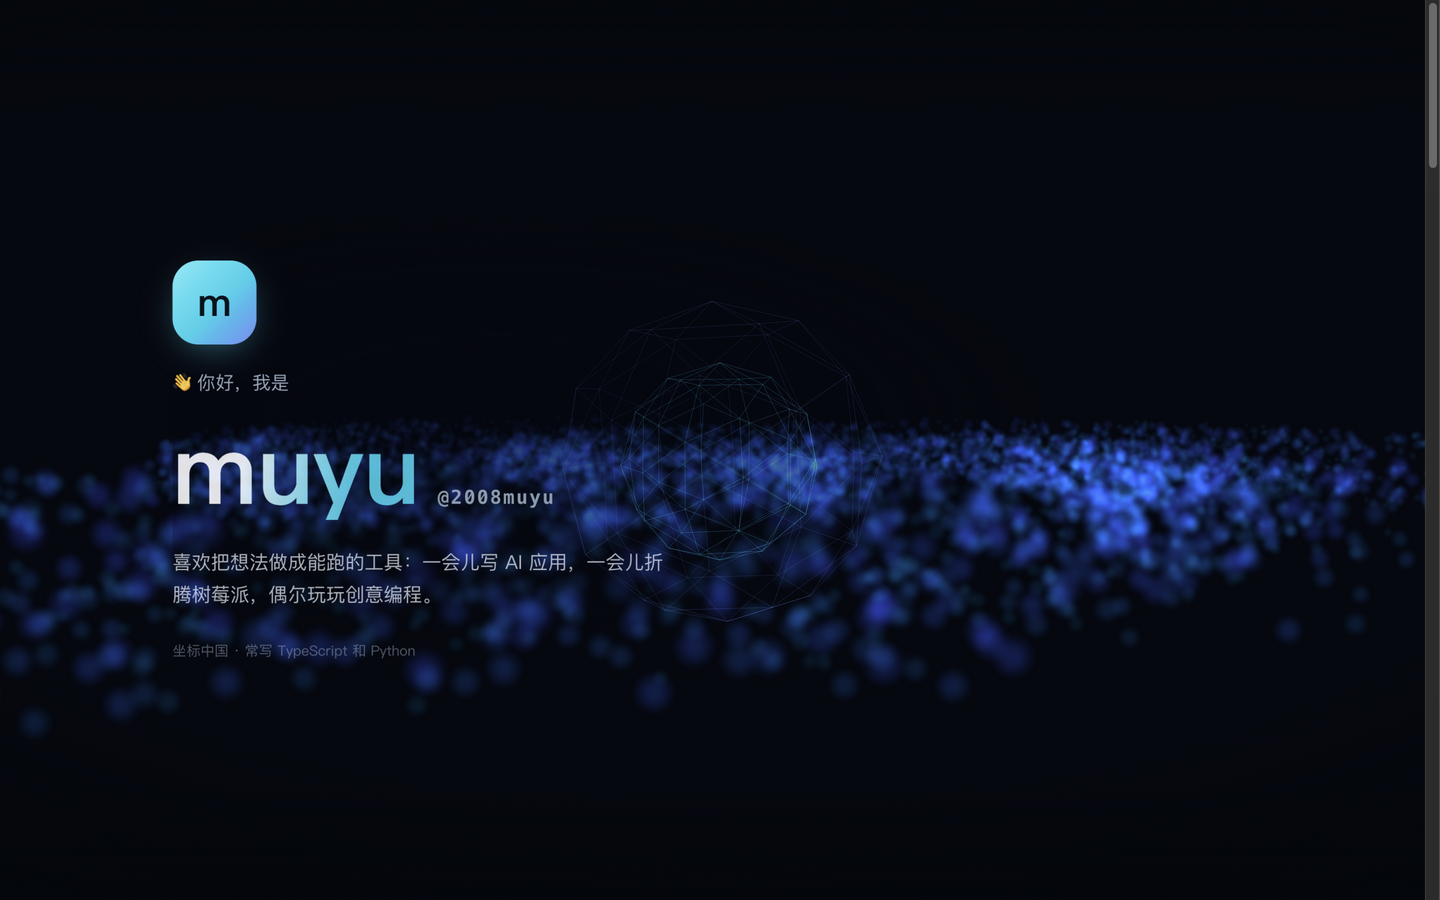
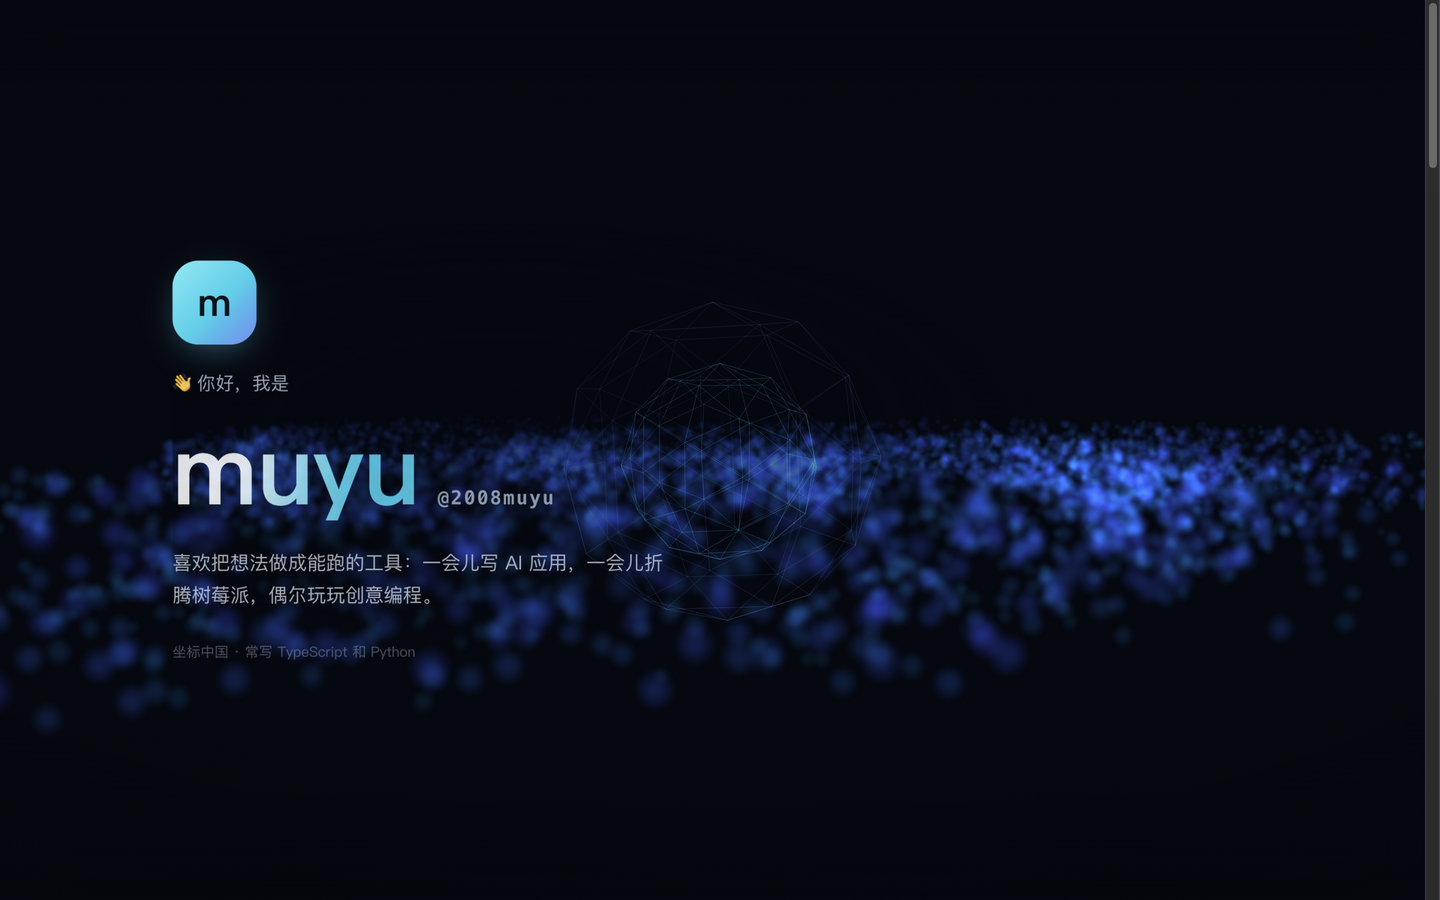
feat(v1.2): 粒子交互三件套——光标引力场/点击涟漪/滚动湍流（着色器 uniform 实现，快起慢落封顶），相机视差加强；修 pow 负底数 GLSL 陷阱

diff --git a/src/experience/ParticlesField.js b/src/experience/ParticlesField.js
@@ -1,7 +1,10 @@
 // 共享粒子场：同一组粒子在五幕之间连续变形（GPU 端 mix，CPU 仅在跨段时烘焙基态）
+// 交互三件套（v1.2）：光标引力场 / 点击涟漪 / 滚动湍流 —— 全部着色器 uniform 驱动，零新增 draw call
 import * as THREE from 'three'
 import { buildFormations } from './utils/formations.js'
 import { mulberry32 } from './utils/perf.js'
+
+const MAX_RIPPLES = 4
 
 const VERT = /* glsl */ `
   attribute vec3 aTarget;
@@ -9,14 +12,43 @@ const VERT = /* glsl */ `
   uniform float uMorph;
   uniform float uTime;
   uniform float uSize;
+  uniform vec3 uMouse;
+  uniform float uMouseK;
+  uniform vec4 uRipples[${MAX_RIPPLES}];
+  uniform float uTurb;
   varying float vRand;
   varying float vDepth;
+  varying float vGlow;
   void main() {
     vec3 p = mix(position, aTarget, uMorph);
     float t = uTime;
     p.x += sin(t * 0.35 + aRand * 6.2831) * 0.05;
     p.y += cos(t * 0.3 + aRand * 4.71) * 0.05;
     p.z += sin(t * 0.22 + aRand * 3.14) * 0.04;
+    // 滚动湍流：滚得越快粒子越躁，停下缓缓平息
+    p.x += sin(t * 2.3 + aRand * 12.6) * 0.17 * uTurb;
+    p.y += cos(t * 1.9 + aRand * 9.4) * 0.17 * uTurb;
+    p.z += sin(t * 2.7 + aRand * 15.7) * 0.13 * uTurb;
+    // 光标引力场：附近粒子被推开（明显可感，位移封顶）
+    vec3 dm = p - uMouse;
+    float md = length(dm);
+    float push = smoothstep(3.8, 0.2, md) * uMouseK;
+    p += (dm / max(md, 0.001)) * push * 1.7;
+    float glow = push * 0.9;
+    // 点击涟漪：球形波前扫过，波及粒子推起并提亮
+    for (int i = 0; i < ${MAX_RIPPLES}; i++) {
+      float age = t - uRipples[i].w;
+      if (age > 0.0 && age < 1.3) {
+        vec3 d = p - uRipples[i].xyz;
+        float dist = length(d);
+        float e = (dist - age * 7.5) * 1.5;
+        float band = exp(-e * e);
+        float amp = band * (1.0 - age / 1.3);
+        p += (d / max(dist, 0.001)) * amp * 1.2;
+        glow += amp;
+      }
+    }
+    vGlow = glow;
     vec4 mv = modelViewMatrix * vec4(p, 1.0);
     gl_PointSize = uSize * (0.6 + aRand * 1.1) * (150.0 / max(0.1, -mv.z));
     gl_Position = projectionMatrix * mv;
@@ -32,15 +64,18 @@ const FRAG = /* glsl */ `
   uniform float uOpacity;
   varying float vRand;
   varying float vDepth;
+  varying float vGlow;
   void main() {
     vec2 uv = gl_PointCoord - 0.5;
     float d = length(uv);
     if (d > 0.5) discard;
     float soft = smoothstep(0.5, 0.05, d);
     vec3 color = mix(uColorA, uColorB, vRand);
-    // 安静背景：整体低亮度，近处略亮、远处快速沉入背景
+    color += vGlow * 0.35;
+    // 安静背景：整体低亮度，近处略亮、远处快速沉入背景；交互处按 vGlow 提亮并封顶
     float fogFade = mix(0.72, 0.1, vDepth);
-    gl_FragColor = vec4(color, soft * (0.22 + 0.58 * vRand) * fogFade * uOpacity);
+    float alpha = soft * (0.22 + 0.58 * vRand) * fogFade * uOpacity * (1.0 + vGlow * 0.9);
+    gl_FragColor = vec4(color, min(alpha, 0.85));
   }
 `
 
@@ -77,6 +112,10 @@ export class ParticlesField {
         uColorA: { value: new THREE.Color('#22d3ee') },
         uColorB: { value: new THREE.Color('#818cf8') },
         uOpacity: { value: 0.55 },
+        uMouse: { value: new THREE.Vector3(0, 0, 999) },
+        uMouseK: { value: 0 },
+        uRipples: { value: Array.from({ length: MAX_RIPPLES }, () => new THREE.Vector4(0, 0, 999, -1e3)) },
+        uTurb: { value: 0 },
       },
       transparent: true,
       depthWrite: false,
@@ -85,6 +124,13 @@ export class ParticlesField {
 
     this.points = new THREE.Points(geometry, this.material)
     this.points.frustumCulled = false
+    this._rippleIdx = 0
+  }
+
+  /** 生成一圈涟漪：pos=世界坐标点击点，time=当前 elapsed（槽位循环复用） */
+  spawnRipple(pos, time) {
+    const slot = this._rippleIdx++ % MAX_RIPPLES
+    this.material.uniforms.uRipples.value[slot].set(pos.x, pos.y, pos.z, time)
   }
 
   /** i=当前幕形态, j=下一形态, t∈[0,1] 混合进度（跨段时把当前视觉状态烘焙为基态，保证连续） */

diff --git a/src/experience/Experience.js b/src/experience/Experience.js
@@ -48,6 +48,36 @@ export class Experience {
     this.sm.register('contact', new ContactScene())
     this.sm.go('hero')
 
+    // 粒子交互状态（预分配，渲染循环内零分配）
+    this._progress = 0
+    this._prevProgress = 0
+    this._ndcX = 0
+    this._ndcY = 0
+    this._pointerSeen = false
+    this._pointerAt = -1e3 // 上次指针移动时刻（elapsed 域）
+    this._rippleSlot = 0
+    this._mouseTarget = new THREE.Vector3(0, 0, 999)
+    this._rayPoint = new THREE.Vector3()
+    this._rayDir = new THREE.Vector3()
+
+    this._onPointerMove = (e) => {
+      this._ndcX = (e.clientX / window.innerWidth) * 2 - 1
+      this._ndcY = -(e.clientY / window.innerHeight) * 2 + 1
+      this._pointerSeen = true
+      this._pointerAt = this.elapsed
+      this._updateMouseTarget(e.clientX, e.clientY)
+    }
+    this._onPointerDown = (e) => {
+      this._updateMouseTarget(e.clientX, e.clientY)
+      this.particles.spawnRipple(this._mouseTarget, this.elapsed)
+    }
+    this._onPointerLeave = () => {
+      this._pointerSeen = false
+    }
+    window.addEventListener('pointermove', this._onPointerMove, { passive: true })
+    window.addEventListener('pointerdown', this._onPointerDown, { passive: true })
+    document.documentElement.addEventListener('mouseleave', this._onPointerLeave)
+
     this.clock = new THREE.Clock()
     this.elapsed = 0
 
@@ -73,8 +103,9 @@ export class Experience {
     requestAnimationFrame(this.loop)
   }
 
-  /** 全局滚动进度（相机关键帧） */
+  /** 全局滚动进度（相机关键帧 + 湍流强度来源） */
   setProgress(p) {
+    this._progress = Math.max(0, Math.min(1, p))
     this.rig.setProgress(p)
   }
 
@@ -101,6 +132,7 @@ export class Experience {
     this.rig.update(dt)
     this.particles.update(dt, this.elapsed)
     this.sm.update(dt, this.elapsed)
+    this._updateInteraction(dt)
     this.renderer.render(this.scene, this.camera)
 
     if (!this.firstFrameEmitted) {
@@ -109,9 +141,34 @@ export class Experience {
     }
   }
 
+  /** 指针屏幕坐标 → 粒子云深度处的世界坐标（随相机移动，始终指向视觉主体） */
+  _updateMouseTarget(clientX, clientY) {
+    this._rayPoint
+      .set((clientX / window.innerWidth) * 2 - 1, -(clientY / window.innerHeight) * 2 + 1, 0.5)
+      .unproject(this.camera)
+    this._rayDir.copy(this._rayPoint).sub(this.camera.position).normalize()
+    this._mouseTarget.copy(this.camera.position).addScaledVector(this._rayDir, 10.5)
+  }
+
+  /** 交互强度缓动：引力场跟随/衰减、湍流快起慢落（强度全部封顶） */
+  _updateInteraction(dt) {
+    const u = this.particles.material.uniforms
+    const kTarget = this._pointerSeen && this.elapsed - this._pointerAt < 1.4 ? 1 : 0
+    u.uMouseK.value += (kTarget - u.uMouseK.value) * (1 - Math.exp(-7 * dt))
+    u.uMouse.value.lerp(this._mouseTarget, 1 - Math.exp(-9 * dt))
+    const vel = Math.abs(this._progress - this._prevProgress) / Math.max(dt, 1e-4)
+    this._prevProgress = this._progress
+    const turbTarget = Math.min(1, vel * 1.4)
+    const ease = turbTarget > u.uTurb.value ? 14 : 2.4 // 快起慢落
+    u.uTurb.value += (turbTarget - u.uTurb.value) * (1 - Math.exp(-ease * dt))
+  }
+
   dispose() {
     this.running = false
     window.removeEventListener('resize', this._onResize)
+    window.removeEventListener('pointermove', this._onPointerMove)
+    window.removeEventListener('pointerdown', this._onPointerDown)
+    document.documentElement.removeEventListener('mouseleave', this._onPointerLeave)
     document.removeEventListener('visibilitychange', this._onVisibility)
     this.rig.dispose()
     this.particles.dispose()

diff --git a/src/experience/CameraRig.js b/src/experience/CameraRig.js
@@ -47,10 +47,10 @@ export class CameraRig {
     // 入场：从更远处推近
     this._pos.z += this.intro * 7
     this._pos.y += this.intro * 1.2
-    // 鼠标视差（弱）
-    this._pos.x += this.parallax.x * 0.5
-    this._pos.y -= this.parallax.y * 0.3
-    this._look.x += this.parallax.x * 0.25
+    // 鼠标视差（v1.2 加强：与粒子引力场叠加出空间感）
+    this._pos.x += this.parallax.x * 0.9
+    this._pos.y -= this.parallax.y * 0.5
+    this._look.x += this.parallax.x * 0.45
 
     const alpha = 1 - Math.exp(-this.damping * dt)
     this.camera.position.lerp(this._pos, alpha)
